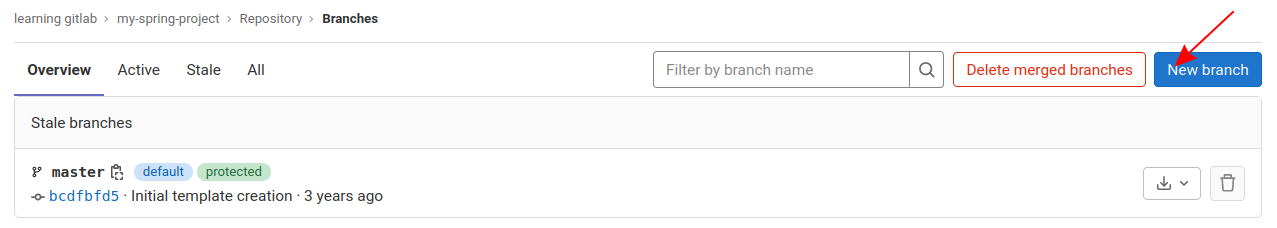
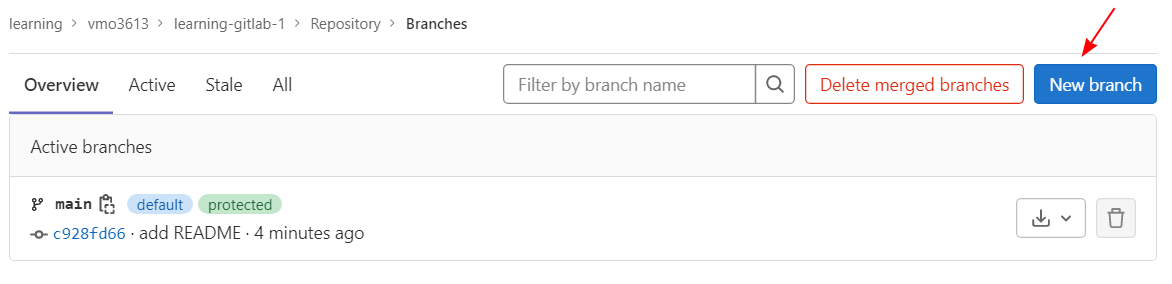
branching

diff --git a/labs/branching/README.md b/labs/branching/README.md
@@ -2,7 +2,7 @@
 
 Branching means you diverge from the main line of development and continue to do work without messing with that main line. The way Git branches is incredibly lightweight, making branching operations nearly instantaneous, and switching back and forth between branches generally just as fast.
 
-For this Lab we will be using our `my-spring-project` project. From the GitLab dashboard click on the project and select **my-spring-project > Repository > Branches**.
+For this Lab we will be using our `learning-gitlab-1` project. From the GitLab dashboard click on the project and select **learning-gitlab-1 > Repository > Branches**.
 
 ![](/imgs/branches-1.png)
 
@@ -12,26 +12,20 @@ For this Lab we will be using our `my-spring-project` project. From the GitLab d
 
 > In the new branch form fill:
 1. **Branch Name:** as hello-world
-2. **Create from:** master
+2. **Create from:** main
 3. Click "Create branch" button
 
 ![](/imgs/branches-3.png)
 
-> We are on hello-world branch. Make changes using WebIDE in file `my-spring-project/src/main/java/com/example/demo/DemoApplication.java`
+> We are on hello-world branch. Create a new file using WebIDE `learning-gitlab-1/hello-1.txt`
 
-Change the below line
-```
-return "Spring is here!";
-```
-
-to 
+Add below content:
 
 ```
-return "Hello, learning gitlab!";
+Hello, learning GitLab!
 ```
 
-> 1. To save, click on the `Create commit...` button on the left panel. 
-> 2. Add the commit message "learning gitlab branching"
-> 3. Commit to the hello-world branch
-> 4. Uncheck `Start a new merge request` checkbox.
-> 4. Click on `Commit` button.
+> 1. Add the commit message "learning gitlab branching"
+> 2. Click on `Commit changes` button to save.
+
+![](/imgs/branches-4.png)
